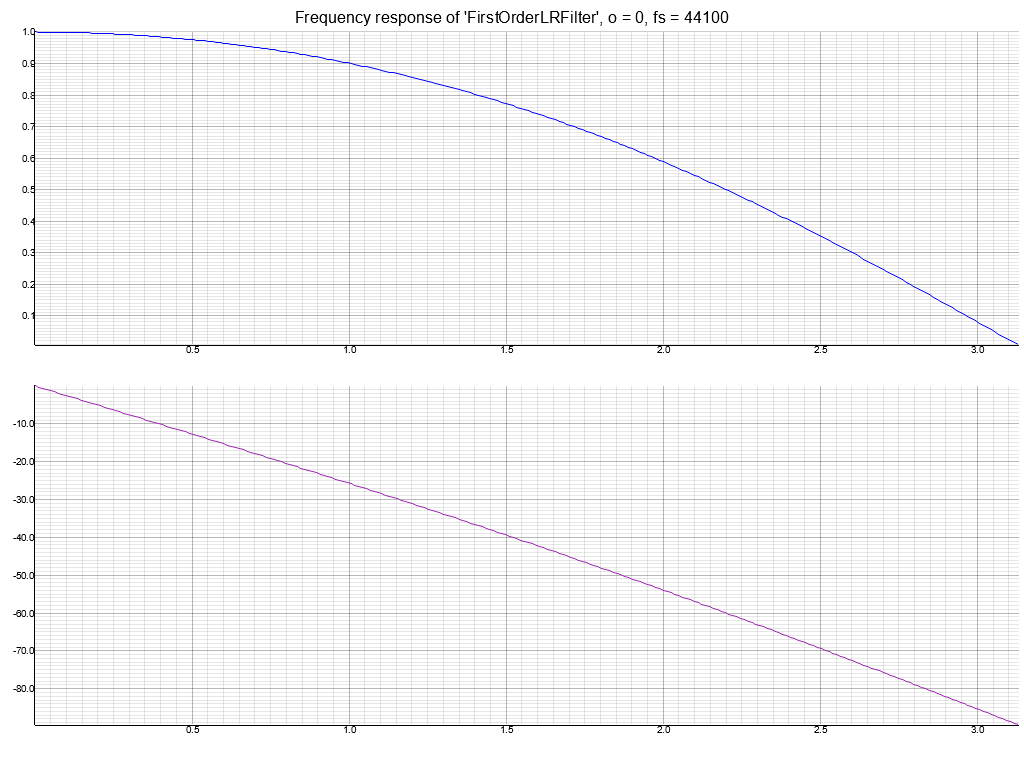
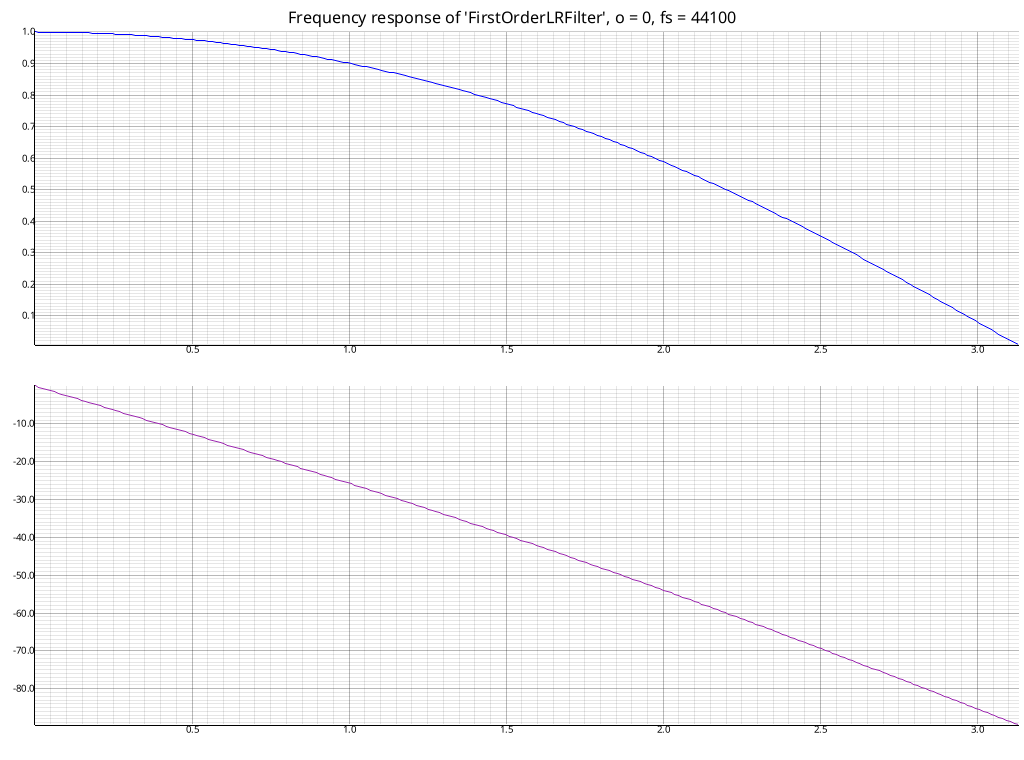
Fix first order lr filter

Changed region(s): [[0.2812, 0.0, 0.7188, 0.0303]]

diff --git a/src/param/param/first_order_lr.rs b/src/param/param/first_order_lr.rs
@@ -1,6 +1,6 @@
-use crate::{conf::{all, All, Conf, HighPass, InputOrGND, LowPass}, param::{FilterParam, FirstOrderFilterParamBase}, params::LR};
+use crate::{conf::{all, All, Conf, HighPass, InputOrGND, LowPass}, param::{FilterParam, FirstOrderFilterParamBase, LRVal, OmegaVal}, params::LR};
 
-use super::FirstOrderFilterConf;
+use super::{FirstOrderFilterConf, FirstOrderFilterParam};
 
 pub trait FirstOrderLRFilterParam<C>: FirstOrderFilterParamBase<C, ImplBase = LR<<Self as FilterParam>::F>>
     + FilterParam<ORDER = 1>
@@ -9,7 +9,7 @@ where
 {
     type Conf: FirstOrderLRFilterConf;
 
-    fn lr(&self) -> LRVar<Self::F>;
+    fn lr(&self) -> LRVal<Self::F>;
 }
 
 impl<P, C> FirstOrderFilterParam<C, LR<P::F>> for P
@@ -19,11 +19,12 @@ where
 {
     type Conf = P::Conf;
 
-    fn omega(&self) -> Self::F
+    fn omega(&self) -> OmegaVal<Self::F>
     {
-        let l = self.l();
-        let r = self.r();
-        r/l
+        let LRVal {l, r} = self.lr();
+        OmegaVal {
+            omega: r/l
+        }
     }
 }
 
@@ -96,7 +97,7 @@ impl_composite_conf!(LowPass, HighPass => All);
 
 mod private
 {
-    use crate::{conf::InputOrGND, filters::iir::first::FirstOrderLRFilter, params::LR, rtf::Rtf};
+    use crate::{conf::InputOrGND, params::LR};
 
     use super::{FirstOrderLRFilterConf, FirstOrderLRFilterParam};
 
@@ -128,10 +129,7 @@ mod private
             L_CONF = {L_CONF}
         >,
         LR<f64>: FirstOrderLRFilterParam<CC, Conf = CC>,
-        LR<f32>: FirstOrderLRFilterParam<CC, Conf = CC>,
-        FirstOrderLRFilter<f64, LR<f64>, C>: Rtf,
-        FirstOrderLRFilter<f32, LR<f32>, C>: Rtf,
-        [(); <<CC as FirstOrderLRFilterConf>::Conf as FirstOrderLRFilterConf>::OUTPUTS]:
+        LR<f32>: FirstOrderLRFilterParam<CC, Conf = CC>
     {
 
     }

diff --git a/src/filters/iir/first/first_order_lr_filter.rs b/src/filters/iir/first/first_order_lr_filter.rs
@@ -1,6 +1,6 @@
 use num::Float;
 
-use crate::{conf::{All, HighPass, LowPass}, param::{FirstOrderLRFilterConf, FirstOrderLRFilterParam}, params::LR, real_time_fir_iir_filters};
+use crate::{conf::{All, HighPass, LowPass}, param::{FirstOrderLRFilterConf, FirstOrderLRFilterParam, LRVal}, params::LR, real_time_fir_iir_filters};
 
 crate::def_rtf!(
     {
@@ -44,8 +44,7 @@ crate::def_rtf!(
 
         fn make_coeffs<All>(param, rate) -> _
         {
-            let r = param.r();
-            let l = param.l();
+            let LRVal {l, r} = param.lr();
             
             let rate_l = rate*l;
             let two_rate_l = rate_l + rate_l;
@@ -61,8 +60,7 @@ crate::def_rtf!(
         }
         fn make_coeffs<LowPass>(param, rate) -> _
         {
-            let r = param.r();
-            let l = param.l();
+            let LRVal {l, r} = param.lr();
             
             let rate_l = rate*l;
             let two_rate_l = rate_l + rate_l;
@@ -77,8 +75,7 @@ crate::def_rtf!(
         }
         fn make_coeffs<HighPass>(param, rate) -> _
         {
-            let r = param.r();
-            let l = param.l();
+            let LRVal {l, r} = param.lr();
             
             let rate_l = rate*l;
             let two_rate_l = rate_l + rate_l;
@@ -134,7 +131,7 @@ mod test
     #[test]
     fn plot()
     {
-        let mut filter = FirstOrderLRFilter::new::<All>(LR::new(100e-3, 10e3));
+        let mut filter = FirstOrderLRFilter::<_, _, All>::new(LR::new(100e-3, 10e3));
         crate::tests::plot_freq(&mut filter, false).unwrap();
     }
 }

diff --git a/src/params/lr.rs b/src/params/lr.rs
@@ -1,4 +1,4 @@
-use crate::{conf::All, param::{FilterFloat, FilterParam, FilterParamFirstOrder, FirstOrderFilterParamBase, FirstOrderLRFilterConf, FirstOrderLRFilterParam}, real_time_fir_iir_filters, util::same::NotSame};
+use crate::{param::{FilterFloat, FilterParam, FirstOrderFilterParamBase, FirstOrderLRFilterConf, FirstOrderLRFilterParam, LRVal}, real_time_fir_iir_filters};
 
 crate::def_param!(
     LR<F> {
@@ -15,12 +15,6 @@ where
 
     type F = F;
 }
-impl<F> FilterParamFirstOrder for LR<F>
-where
-    F: FilterFloat
-{
-    
-}
 impl<F, C> FirstOrderFilterParamBase<C> for LR<F>
 where
     F: FilterFloat,
@@ -35,13 +29,12 @@ where
 {
     type Conf = C;
 
-    fn l(&self) -> Self::F
+    fn lr(&self) -> LRVal<Self::F>
     {
-        *self.l
-    }
-    fn r(&self) -> Self::F
-    {
-        *self.r
+        LRVal {
+            l: *self.l,
+            r: *self.r
+        }
     }
 }
 /*impl<P> From<P> for LR<P::F>

diff --git a/src/param/val/mod.rs b/src/param/val/mod.rs
@@ -1,5 +1,6 @@
 moddef::moddef!(
     flat(pub) mod {
+        lr for cfg(feature = "param_lr"),
         omega_epsilon_xi for cfg(feature = "param_omega_epsilon_xi"),
         omega_epsilon for cfg(feature = "param_omega_epsilon"),
         omega_zeta for cfg(feature = "param_omega_zeta"),

diff --git a/src/param/val/lr.rs b/src/param/val/lr.rs
@@ -1,0 +1,9 @@
+use num::Float;
+
+pub struct LRVal<F>
+where
+    F: Float
+{
+    pub l: F,
+    pub r: F
+}
